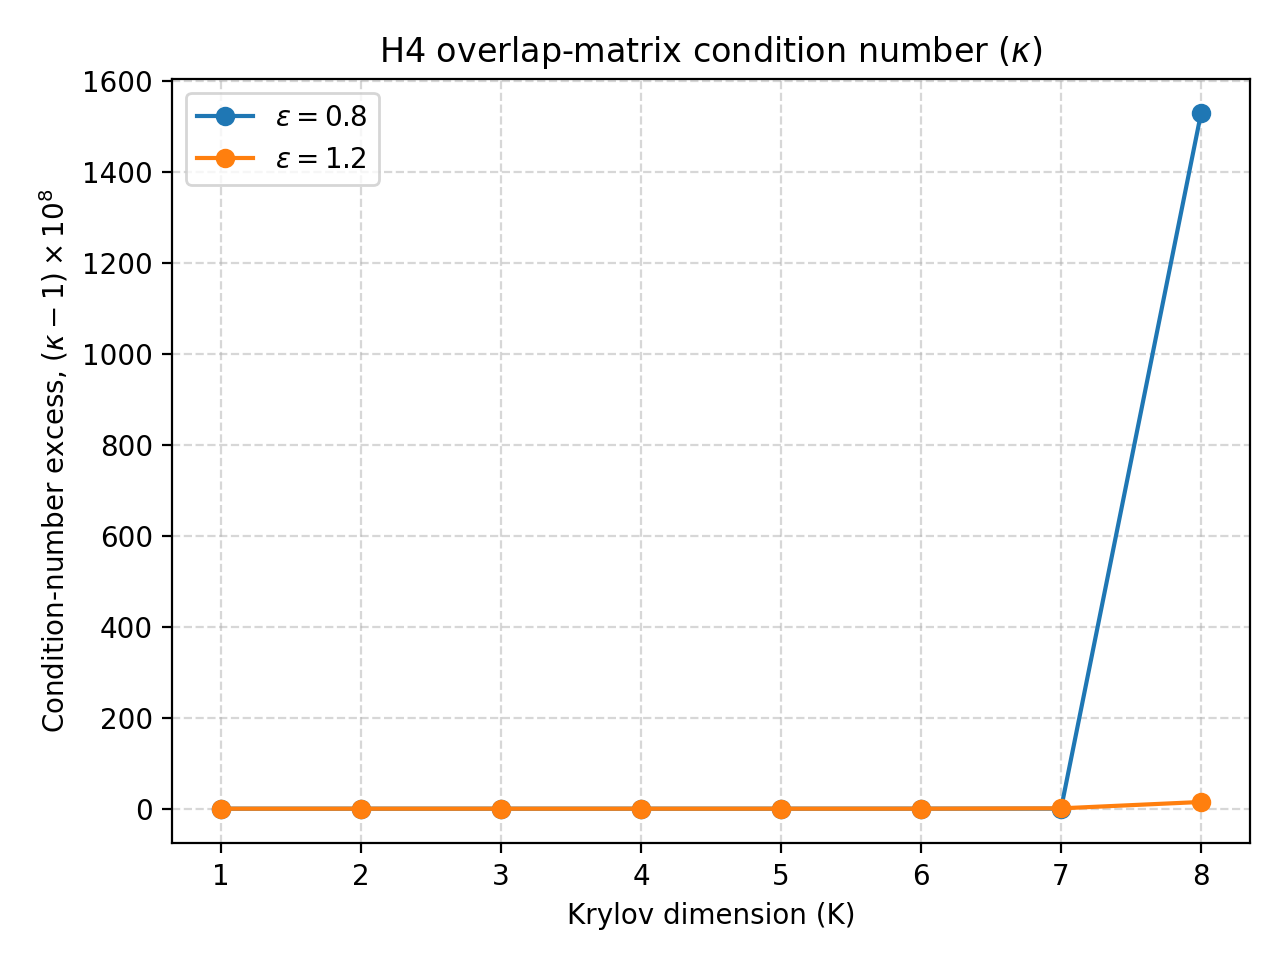
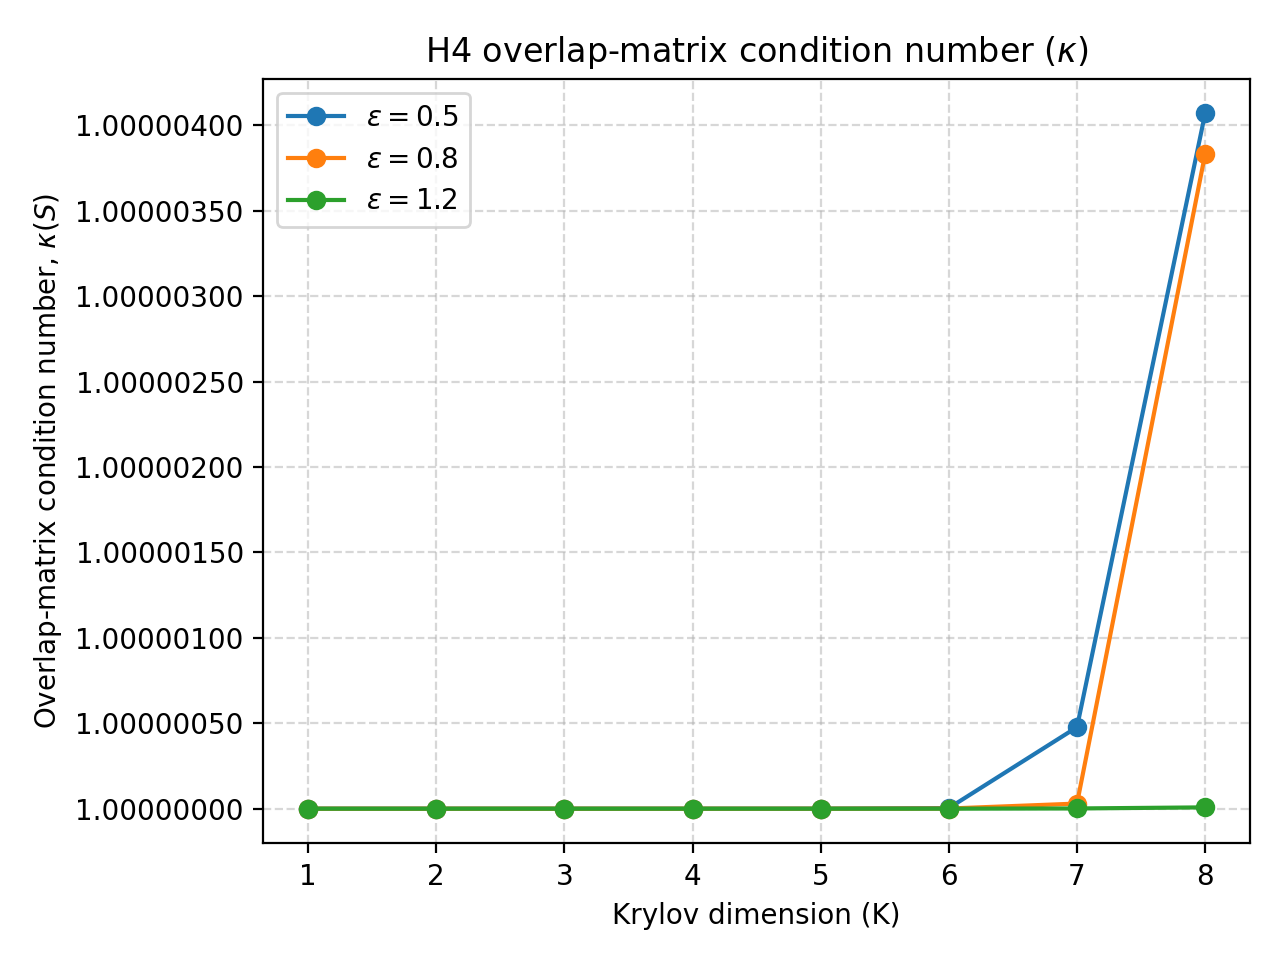
save

diff --git a/examples/h4.py b/examples/h4.py
@@ -1,21 +1,30 @@
-"""Run square H4 with OCQKUD at epsilon=0.8 and 1.2."""
+"""Run square H4 with OCQKUD at epsilon=0.5, 0.8, and 1.2."""
 
 from __future__ import annotations
 
+import argparse
 from contextlib import redirect_stdout
+import re
 import sys
 from pathlib import Path
 
 import matplotlib
 import numpy as np
+import pennylane as qml
 
 matplotlib.use("Agg")
 import matplotlib.pyplot as plt
+from matplotlib.ticker import FormatStrFormatter
 
 if __package__ in (None, ""):
     sys.path.insert(0, str(Path(__file__).resolve().parents[1]))
 
-from cqkud import QuantumOCQKUD, build_molecular_problem, exact_sector_energy
+from cqkud import (
+    MolecularProblem,
+    QuantumOCQKUD,
+    build_molecular_problem,
+    exact_sector_energy,
+)
 
 
 GEOMETRY_ANGSTROM = np.array(
@@ -26,8 +35,9 @@ GEOMETRY_ANGSTROM = np.array(
         [0.0, 1.5, 1.5],
     ]
 )
-EPSILONS = (0.8, 1.2)
+EPSILONS = (0.5, 0.8, 1.2)
 MAX_DIMENSION = 8
+ARCHIVE_FILE = Path(__file__).resolve().parent / "data" / "h4_square_hamiltonian.npz"
 OUTPUT_DIR = Path(__file__).resolve().parents[1] / "output"
 OUTPUT_FILE = OUTPUT_DIR / "output.txt"
 CONDITION_PLOT_FILE = OUTPUT_DIR / "condition_number.png"
@@ -35,17 +45,79 @@ ENERGY_PLOT_FILE = OUTPUT_DIR / "energy_convergence.png"
 FCI_ERROR_PLOT_FILE = OUTPUT_DIR / "energy_error_fci.png"
 
 
-def main() -> None:
-    problem = build_molecular_problem(
-        symbols=["H", "H", "H", "H"],
-        geometry_angstrom=GEOMETRY_ANGSTROM,
-        active_electrons=4,
-        active_orbitals=4,
-        basis="sto-3g",
+def _pauli_operator(word: str):
+    if word == "I()":
+        return qml.Identity(0)
+    gates = {"X": qml.PauliX, "Y": qml.PauliY, "Z": qml.PauliZ}
+    factors = []
+    for factor in word.split(" @ "):
+        match = re.fullmatch(r"([XYZ])\((\d+)\)", factor)
+        if match is None:
+            raise ValueError(f"unsupported archived Pauli word: {word}")
+        gate, wire = match.groups()
+        factors.append(gates[gate](int(wire)))
+    return qml.prod(*factors) if len(factors) > 1 else factors[0]
+
+
+def load_archived_problem(snapshot: Path = ARCHIVE_FILE) -> MolecularProblem:
+    """Load the fixed H4 Hamiltonian used by the ocqkudsin comparison."""
+
+    with np.load(snapshot, allow_pickle=False) as saved:
+        matrix = np.asarray(saved["H"], dtype=complex)
+        coefficients = np.asarray(saved["pauli_coefficients"], dtype=float)
+        words = [str(word) for word in saved["pauli_words"]]
+        hf_state = np.asarray(saved["hf_state"], dtype=complex)
+        pauli_bound = float(saved["pauli_bound"])
+        geometry = np.asarray(saved["geometry_angstrom"], dtype=float)
+
+    if not np.array_equal(geometry, GEOMETRY_ANGSTROM):
+        raise ValueError("the archived geometry is not the square H4 example")
+    n_qubits = int(round(np.log2(len(hf_state))))
+    if matrix.shape != (2**n_qubits, 2**n_qubits):
+        raise ValueError("the archived Hamiltonian has the wrong shape")
+    if not np.isclose(np.sum(np.abs(coefficients)), pauli_bound, atol=1e-9):
+        raise ValueError("the archived Pauli bound disagrees with its coefficients")
+    operators = tuple(_pauli_operator(word) for word in words)
+    hamiltonian = qml.dot(coefficients, operators)
+    reconstructed = np.asarray(
+        qml.matrix(hamiltonian, wire_order=range(n_qubits)), dtype=complex
     )
+    if not np.allclose(reconstructed, matrix, rtol=0, atol=1e-10):
+        raise ValueError("the archived Pauli terms disagree with its matrix")
+    hf_index = int(np.argmax(np.abs(hf_state)))
+    if not np.isclose(abs(hf_state[hf_index]), 1.0) or np.count_nonzero(hf_state) != 1:
+        raise ValueError("the archived Hartree-Fock state is not a basis state")
+    hf_bits = np.fromiter(
+        (int(bit) for bit in f"{hf_index:0{n_qubits}b}"), dtype=int
+    )
+    return MolecularProblem(
+        hamiltonian=hamiltonian,
+        coefficients=coefficients,
+        operators=operators,
+        n_qubits=n_qubits,
+        hf_bits=hf_bits,
+        hf_state=hf_state,
+        pauli_bound=pauli_bound,
+    )
+
+
+def main(*, rebuild: bool = False) -> None:
+    if rebuild:
+        problem = build_molecular_problem(
+            symbols=["H", "H", "H", "H"],
+            geometry_angstrom=GEOMETRY_ANGSTROM,
+            active_electrons=4,
+            active_orbitals=4,
+            basis="sto-3g",
+        )
+        source = f"fresh PennyLane {qml.__version__} molecular Hamiltonian"
+    else:
+        problem = load_archived_problem()
+        source = "bundled H4 Hamiltonian from the ocqkudsin comparison"
 
     fci_energy = exact_sector_energy(problem, n_alpha=2, n_beta=2)
     print("Square H4, side length 1.5 Angstrom, STO-3G")
+    print(f"Hamiltonian source: {source}")
     print(f"Pauli coefficient bound: {problem.pauli_bound:.12f} Hartree")
     print(f"FCI energy (active space, 2 alpha + 2 beta): {fci_energy:.12f} Hartree")
     condition_data = []
@@ -101,11 +173,11 @@ def main() -> None:
 
     figure, axes = plt.subplots()
     for epsilon, dimensions, conditions in condition_data:
-        excess = [(condition - 1.0) * 1e8 for condition in conditions]
-        axes.plot(dimensions, excess, marker="o", label=f"$\\epsilon={epsilon:g}$")
+        axes.plot(dimensions, conditions, marker="o", label=f"$\\epsilon={epsilon:g}$")
     axes.set_xlabel("Krylov dimension (K)")
-    axes.set_ylabel(r"Condition-number excess, $(\kappa - 1) \times 10^8$")
+    axes.set_ylabel(r"Overlap-matrix condition number, $\kappa(S)$")
     axes.set_title(r"H4 overlap-matrix condition number ($\kappa$)")
+    axes.yaxis.set_major_formatter(FormatStrFormatter("%.8f"))
     axes.grid(True, linestyle="--", alpha=0.5)
     axes.legend()
     figure.tight_layout()
@@ -149,7 +221,14 @@ def main() -> None:
 
 
 if __name__ == "__main__":
+    parser = argparse.ArgumentParser(description=__doc__)
+    parser.add_argument(
+        "--rebuild",
+        action="store_true",
+        help="generate a new Hamiltonian with the installed PennyLane version",
+    )
+    args = parser.parse_args()
     OUTPUT_DIR.mkdir(parents=True, exist_ok=True)
     with OUTPUT_FILE.open("w", encoding="utf-8") as output:
         with redirect_stdout(output):
-            main()
+            main(rebuild=args.rebuild)

diff --git a/README.md b/README.md
@@ -24,12 +24,18 @@ python -m unittest discover -s tests
 python -m examples.h4
 ```
 
-The H4 example writes the energy estimate at each Krylov dimension for two
+The H4 example uses the bundled Hamiltonian and Hartree-Fock reference from
+the `ocqkudsin` square-H4 comparison. This keeps its Krylov starting state
+and convergence reproducible across PennyLane versions. To build the
+Hamiltonian with the installed PennyLane version instead, run
+`python -m examples.h4 --rebuild`; orbital choices may then change which
+eigenstates the Hartree-Fock reference can reach.
+
+The example writes the energy estimate at each Krylov dimension for three
 epsilon values and their overlap-matrix condition numbers to
 `output/output.txt`, and saves a condition-number plot as
 `output/condition_number.png` plus an energy-convergence plot as
 `output/energy_convergence.png`. It also computes an exact active-space FCI
 reference for the balanced 2-alpha/2-beta sector and saves the absolute energy
 error plot as `output/energy_error_fci.png`. The output directory is created
-automatically. Results can vary with the PennyLane version used to generate
-the molecular Hamiltonian.
+automatically.
